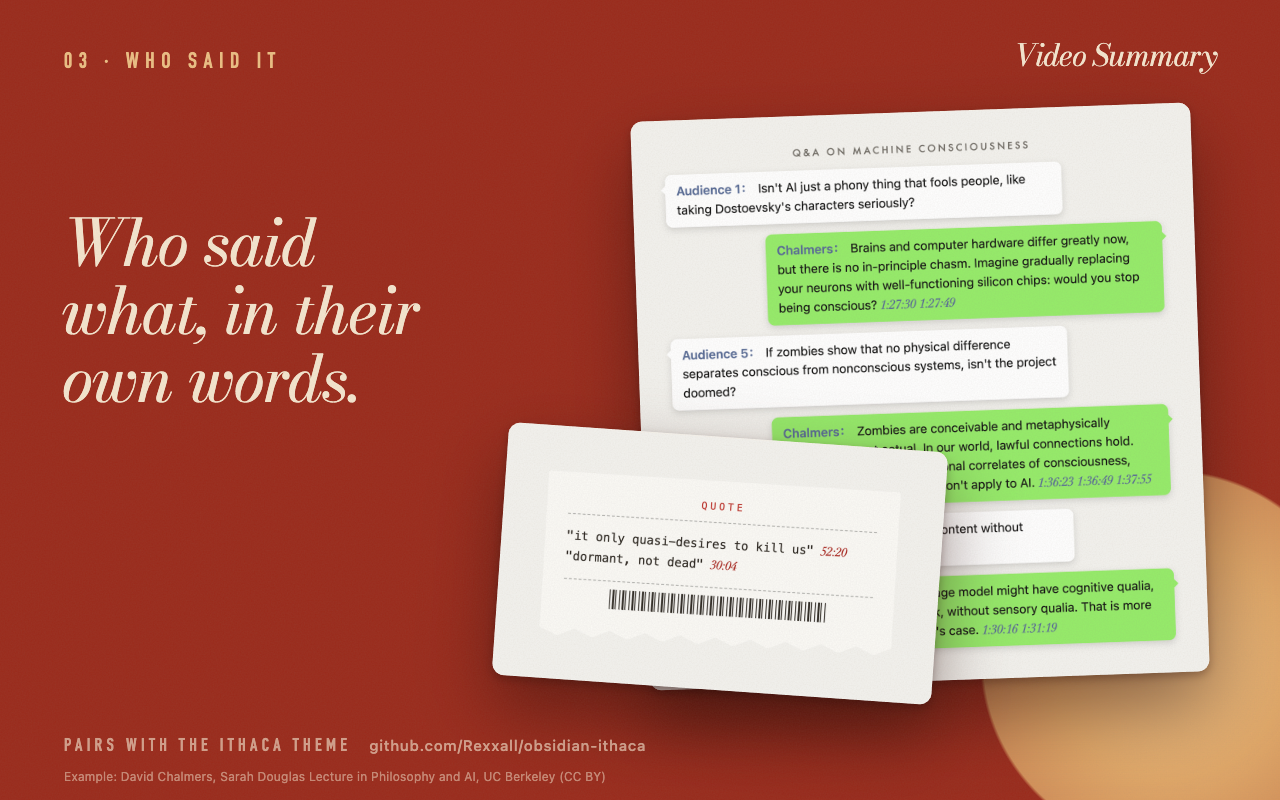
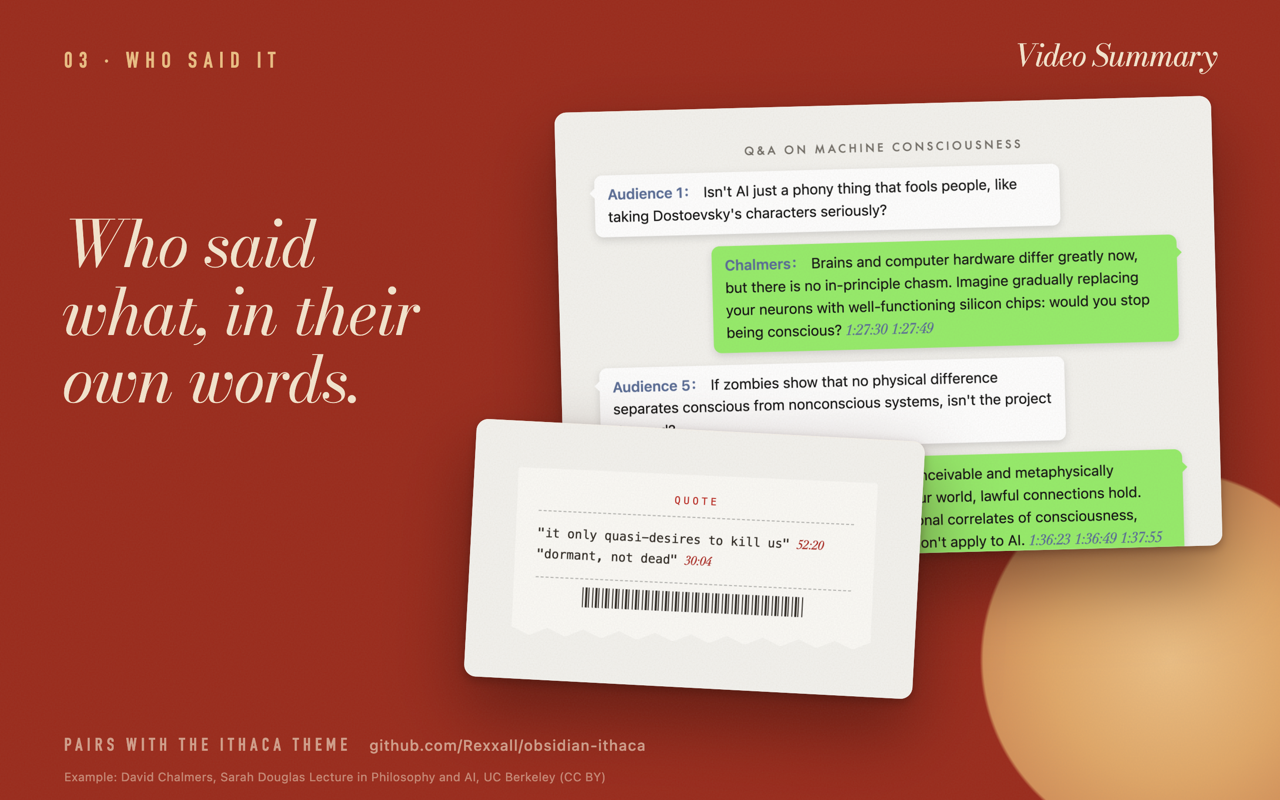
Closer, larger crops in store shots 2-4

diff --git a/docs/store/src/store.html b/docs/store/src/store.html
@@ -237,6 +237,21 @@
         letter-spacing: 0.02em;
         white-space: nowrap;
       }
+      .crop img {
+        position: absolute;
+        max-width: none;
+      }
+      .lang {
+        position: absolute;
+        z-index: 3;
+        padding: 6px 13px;
+        border-radius: 999px;
+        background: var(--cream);
+        color: #7a2216;
+        font: 600 14px/1 var(--sans);
+        white-space: nowrap;
+        box-shadow: 0 6px 16px rgb(40 8 4 / 0.3);
+      }
       svg.lines {
         position: absolute;
         inset: 0;
@@ -269,21 +284,26 @@
     </section>
 
     <section class="shot" data-shot="2">
-      <div class="sun" style="left: 780px; top: 168px; width: 260px; height: 260px"></div>
+      <div class="sun" style="left: 900px; top: 470px; width: 330px; height: 330px"></div>
       <h1
         class="abs wide"
         data-t="h2"
         style="top: 92px; left: 0; width: 1280px; text-align: center; font-size: 50px"
       ></h1>
       <div
-        id="anat"
-        class="sheet note"
-        style="left: 250px; top: 190px; width: 640px; height: 420px"
+        class="sheet crop"
+        id="head"
+        style="left: 236px; top: 186px; transform: rotate(-1deg)"
+      ></div>
+      <div
+        class="sheet crop"
+        id="gist"
+        style="left: 712px; top: 224px; transform: rotate(1.2deg)"
       ></div>
       <div
         class="sheet"
         id="claim-box"
-        style="left: 500px; top: 528px; width: 520px; transform: rotate(-2deg)"
+        style="left: 600px; top: 470px; width: 600px; transform: rotate(-1.5deg)"
       >
         <img id="claim" alt="" />
       </div>
@@ -293,36 +313,44 @@
     <section class="shot" data-shot="3">
       <div class="sun" style="left: 980px; top: 470px; width: 380px; height: 380px"></div>
       <h1 class="abs" data-t="h3" style="left: 62px; top: 210px; width: 430px"></h1>
-      <div class="sheet" style="left: 640px; top: 112px; width: 560px; transform: rotate(-2deg)">
+      <div
+        class="sheet"
+        id="chat-box"
+        style="left: 560px; top: 104px; width: 657px; height: 450px; transform: rotate(-1.5deg)"
+      >
         <img id="chat" alt="" />
       </div>
-      <div class="sheet" id="receipt-box" style="left: 500px; transform: rotate(4deg)">
+      <div
+        class="sheet"
+        id="receipt-box"
+        style="left: 470px; top: 430px; width: 449px; transform: rotate(3deg)"
+      >
         <img id="receipt" alt="" />
       </div>
     </section>
 
     <section class="shot" data-shot="4">
-      <div class="sun" style="left: 880px; top: 420px; width: 420px; height: 420px"></div>
+      <div class="sun" style="left: 940px; top: 120px; width: 380px; height: 380px"></div>
       <h1
         class="abs wide"
         data-t="h4"
         style="top: 92px; left: 0; width: 1280px; text-align: center; font-size: 50px"
       ></h1>
       <div
-        class="sheet strip"
-        style="left: 150px; top: 186px; width: 300px; height: 500px; transform: rotate(-1.5deg)"
-      >
-        <img data-strip="en-light" alt="" />
-      </div>
-      <div class="sheet strip" style="left: 490px; top: 180px; width: 300px; height: 500px">
-        <img data-strip="zh_CN-light" alt="" />
-      </div>
+        class="sheet crop sum"
+        data-sum="en-light"
+        style="left: 150px; top: 192px; transform: rotate(-1.2deg)"
+      ></div>
       <div
-        class="sheet strip"
-        style="left: 830px; top: 186px; width: 300px; height: 500px; transform: rotate(1.5deg)"
-      >
-        <img data-strip="ja-dark" alt="" />
-      </div>
+        class="sheet crop sum"
+        data-sum="zh_CN-light"
+        style="left: 385px; top: 368px; transform: rotate(0.8deg)"
+      ></div>
+      <div
+        class="sheet crop sum"
+        data-sum="ja-dark"
+        style="left: 620px; top: 538px; transform: rotate(-0.6deg)"
+      ></div>
     </section>
 
     <section class="shot" data-shot="5">
@@ -445,11 +473,97 @@
       document.getElementById('claim').src = `note/chalmers-claim-${lang}.png`;
       document.getElementById('chat').src = `note/chalmers-chat-${lang}.png`;
       document.getElementById('receipt').src = `note/chalmers-receipt-${lang}.png`;
-      document
-        .querySelectorAll('[data-strip]')
-        .forEach((el) => (el.src = `note/chalmers-strip-${el.dataset.strip}.png`));
-      document.getElementById('pop-s').src = `popup/popup-settings-${lang}-light.png`;
-      document.getElementById('bridge').src = `note/bridge-settings-${c.bridge}.png`;
+      /** Shows source rectangle [x0,y0,x1,y1] of a 1080-wide strip at half size: body text stays 14 px. */
+      const K = 0.5;
+      function crop(box, src, [x0, y0, x1, y1]) {
+        const img = new Image();
+        img.src = src;
+        img.style.width = `${1080 * K}px`;
+        img.style.left = `${-x0 * K}px`;
+        img.style.top = `${-y0 * K}px`;
+        box.style.width = `${(x1 - x0) * K}px`;
+        box.style.height = `${(y1 - y0) * K}px`;
+        box.appendChild(img);
+      }
+      const STRIP = { en: 'en-light', zh_CN: 'zh_CN-light', ja: 'ja-dark' }[lang];
+      const HEAD = {
+        'en-light': [40, 180, 1060, 1200],
+        'zh_CN-light': [40, 180, 1060, 1200],
+        'ja-dark': [40, 180, 1060, 1250],
+      };
+      const SUM = {
+        'en-light': [40, 1235, 1060, 1590],
+        'zh_CN-light': [40, 1235, 1060, 1540],
+        'ja-dark': [40, 1280, 1060, 1630],
+      };
+      const NAME = { 'en-light': 'English', 'zh_CN-light': '简体中文', 'ja-dark': '日本語' };
+      if (shot === '2') {
+        crop(document.getElementById('head'), `note/chalmers-strip-${STRIP}.png`, HEAD[STRIP]);
+        crop(document.getElementById('gist'), `note/chalmers-strip-${STRIP}.png`, SUM[STRIP]);
+      }
+      document.querySelectorAll('[data-sum]').forEach((box) => {
+        crop(box, `note/chalmers-strip-${box.dataset.sum}.png`, SUM[box.dataset.sum]);
+        const tag = document.createElement('div');
+        tag.className = 'lang';
+        tag.textContent = NAME[box.dataset.sum];
+        tag.style.left = `${parseFloat(box.style.left) + 470}px`;
+        tag.style.top = `${parseFloat(box.style.top) - 14}px`;
+        box.parentElement.appendChild(tag);
+      });
+      if (shot === '2')
+        window.addEventListener('load', () => {
+          // A point on a rotated box, as fractions of its unrotated size.
+          const on = (el, deg, fx, fy) => {
+            const r = el.getBoundingClientRect();
+            const th = (deg * Math.PI) / 180;
+            const dx = (fx - 0.5) * el.offsetWidth;
+            const dy = (fy - 0.5) * el.offsetHeight;
+            return [
+              r.left + r.width / 2 + dx * Math.cos(th) - dy * Math.sin(th),
+              r.top + r.height / 2 + dx * Math.sin(th) + dy * Math.cos(th),
+            ];
+          };
+          const head = document.getElementById('head');
+          const [hx0, hy0, hx1, hy1] = HEAD[STRIP];
+          const onHead = (x, y) => on(head, -1, (x - hx0) / (hx1 - hx0), (y - hy0) / (hy1 - hy0));
+          const gist = document.getElementById('gist');
+          const claim = document.getElementById('claim-box');
+          const TAKE = { en: [70, 520], zh_CN: [70, 520], ja: [70, 560] }[lang];
+          const FRAME = { en: [70, 830], zh_CN: [70, 830], ja: [70, 860] }[lang];
+          const TIME = { en: [0.615, 0.73], zh_CN: [0.29, 0.62], ja: [0.785, 0.74] }[lang];
+          const svg = document.getElementById('anat-lines');
+          const sec = svg.parentElement;
+          const L = head.getBoundingClientRect().left - 18;
+          const take = onHead(...TAKE);
+          const frame = onHead(...FRAME);
+          label(sec, c.a[0], L - 10, take[1], 'left');
+          line(svg, L, take[1], take[0], take[1]);
+          label(sec, c.a[1], L - 10, frame[1], 'left');
+          line(svg, L, frame[1], frame[0], frame[1]);
+          const g = on(gist, 1.2, 0.6, 0.02);
+          const gl = document.createElement('div');
+          gl.className = 'label';
+          gl.textContent = c.a[2];
+          gl.style.width = '300px';
+          gl.style.left = `${g[0] - 20}px`;
+          gl.style.top = `${g[1] - 44}px`;
+          sec.appendChild(gl);
+          const time = on(claim, -1.5, ...TIME);
+          pointer(svg, time[0], time[1]);
+          const tl = document.createElement('div');
+          tl.className = 'label';
+          tl.textContent = c.a[5];
+          tl.style.width = '320px';
+          tl.style.left = `${Math.min(time[0] - 10, 1216 - 320)}px`;
+          tl.style.top = `${claim.getBoundingClientRect().bottom + 12}px`;
+          sec.appendChild(tl);
+        });
+      if (shot === '3')
+        window.addEventListener('load', () => {
+          // A longer receipt (Chinese, Japanese) rises so it stays clear of the footer.
+          const rb = document.getElementById('receipt-box');
+          rb.style.top = `${Math.min(430, 712 - rb.offsetHeight)}px`;
+        });
       if (shot === '5') document.querySelector('.credit').remove();
 
       const NS = 'http://www.w3.org/2000/svg';
@@ -512,59 +626,6 @@
         svg.appendChild(p);
       }
 
-      if (shot === '3')
-        window.addEventListener('load', () => {
-          // The receipt overlaps the foot of the chat card, whatever its height.
-          const chat = document.getElementById('chat').getBoundingClientRect();
-          const rb = document.getElementById('receipt-box');
-          rb.style.width = '440px';
-          rb.style.top = `${Math.min(Math.max(chat.bottom - 150, 380), 690 - rb.offsetHeight)}px`;
-        });
-
-      if (shot === '2')
-        window.addEventListener('load', () => {
-          // Anchors as fractions of note/chalmers-top-<lang>.png and note/chalmers-claim-<lang>.png.
-          const box = document.getElementById('anat').getBoundingClientRect();
-          const at = (fx, fy) => [box.left + fx * box.width, box.top + fy * box.height];
-          const cb = document.getElementById('claim').getBoundingClientRect();
-          // The claim slip is rotated -2deg about its centre.
-          const th = (-2 * Math.PI) / 180;
-          const cx = cb.left + cb.width / 2;
-          const cy = cb.top + cb.height / 2;
-          const el = document.getElementById('claim');
-          const w = el.offsetWidth;
-          const h = el.offsetHeight;
-          const onClaim = (fx, fy) => {
-            const dx = (fx - 0.5) * w;
-            const dy = (fy - 0.5) * h;
-            return [
-              cx + dx * Math.cos(th) - dy * Math.sin(th),
-              cy + dx * Math.sin(th) + dy * Math.cos(th),
-            ];
-          };
-          const RING = { en: [0.05, 0.44], zh_CN: [0.05, 0.38], ja: [0.05, 0.44] }[lang];
-          const TIME = { en: [0.615, 0.73], zh_CN: [0.29, 0.62], ja: [0.785, 0.74] }[lang];
-          const svg = document.getElementById('anat-lines');
-          const sec = svg.parentElement;
-          const L = box.left - 26;
-          const R = Math.max(box.right, cb.right) + 26;
-          const ring = onClaim(...RING);
-          const time = onClaim(...TIME);
-          const marks = [
-            { a: at(0.035, 0.3), side: 'left', y: at(0, 0.3)[1] },
-            { a: at(0.12, 0.5), side: 'left', y: at(0, 0.5)[1] },
-            { a: at(0.037, 0.74), side: 'left', y: at(0, 0.74)[1] },
-            { a: at(0.86, 0.42), side: 'right', y: at(0, 0.42)[1] },
-            { a: ring, side: 'left', y: ring[1] + 6 },
-            { a: [time[0] + 12, time[1] + 16], side: 'right', y: time[1] + 34 },
-          ];
-          marks.forEach((m, i) => {
-            const x = m.side === 'left' ? L : R;
-            label(sec, c.a[i], m.side === 'left' ? x - 10 : x + 10, m.y, m.side);
-            line(svg, x, m.y, m.a[0], m.a[1], false, i !== 5);
-          });
-          pointer(svg, time[0], time[1]);
-        });
       if (shot === '5')
         window.addEventListener('load', () => {
           const svg = document.getElementById('pair-lines');
